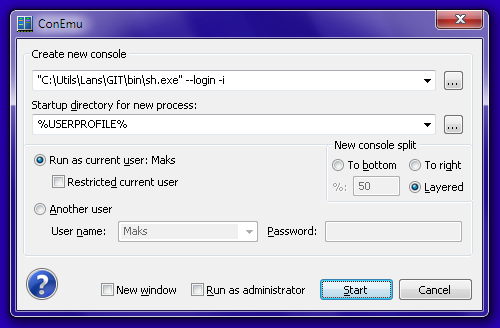
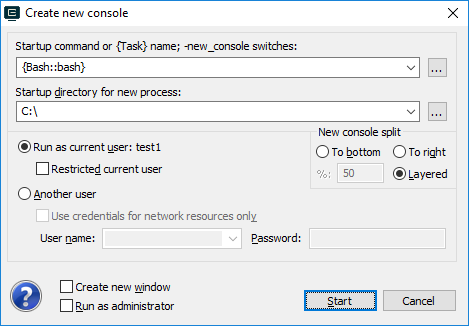
Updated screenshot and ‘take care about double quotes’

diff --git a/en/LaunchNewTab.md b/en/LaunchNewTab.md
@@ -16,6 +16,7 @@ breadcrumbs:
   * [Create new console without dialog](#Create_new_console_without_dialog)
 * [Tasks](#Tasks)
 * [Create new tab from existing one](#Create_new_tab_from_existing_one)
+  * [Take care about double quotes](#double_quotes)
 * [Duplicate root](#Duplicate_root)
 * [Default terminal feature](#Default_terminal_feature)
 * [Attach existing console or GUI application](#Attach_existing_console_or_GUI_application)
@@ -25,7 +26,7 @@ breadcrumbs:
 
 
 
-<h2 id="Using_ConEmu_switches"> <a href="ConEmuArgs.html">Using ConEmu switches</a> </h2>
+## [Using ConEmu switches](ConEmuArgs.html)  {#Using_ConEmu_switches}
 
 When you run something from `Win+R` or shortcut from your Desktop,
 you may use `-run` or `-runlist` to run your application. Remember, `-run` or `-runlist` will be the last ConEmu's GUI interpreted switch. The rest of command line will be used to start your application. Read more in the [wiki](ConEmuArgs.html). Example:
@@ -35,21 +36,23 @@ ConEmu -reuse -dir "c:\projects" -run "set PATH=C:\MinGW\bin;%PATH%" & chcp 6500
 ~~~
 
 
+
+
 ## Create new console dialog  {#Create_new_console_dialog}
 
 How to start application (tcc, powershell, far, putty) in ConEmu tab?
 
 ![ConEmu confirmation of new console creation](/img/ConEmuCreate.png)
 
-This dialog may be opened from:
+This dialog may be opened by:
 
-* Keyboard (Win+W by default), or
-* ![Toolbar](/img/ConEmuAddBtn.png)
-* ![System menu](/img/ConEmuAddSys.png)
+* [Keyboard shortcut](SettingsHotkeys.html) (it's `Win+Shif+W` by default)
+* [Toolbar's](ToolBar.html) <code class="plus">[+]</code> button, you have to hold `Shift` key if you've disabled
+  [‘Confirm creating new console/tab’](SettingsConfirm.html#id1546) <br/>
+  ![Toolbar](/img/ConEmuAddBtn.png)
+* [System menu -> New console...](SystemMenu.html) <br/>
+  ![System menu](/img/ConEmuAddSys.png)
 * GuiMacro [Create(0,1)](GuiMacro.html#Recreate)
-
-**NB**, if you have disabled [Create confirmation](SettingsConfirm.html)
-press `Win+Shift+W` or `Shift`+<code class="plus">[+]</code>.
 
 Well, what you can do with this dialog?
 
@@ -80,7 +83,7 @@ or Keyboard (`Win+Shift+W` by default).
 
 
 
-<h2 id="Tasks"> <a href="Tasks.html">Tasks</a> </h2>
+## [Tasks](Tasks.html)  {#Tasks}
 
 You may define your own tasks or just use predefined one.
 Choose the task from drop down menu or run task by hotkey.
@@ -110,6 +113,21 @@ For example, you may start command in new elevated tab using `-new_console:a`.
 ~~~
 cmd -new_console:a
 ~~~
+
+
+### Take care about double quotes  {#double_quotes}
+
+Some shells (e.g. PowerShell) do preprocessing of the typed command line
+**before** passing it to the starting application.
+
+You must properly **escape** double quotes. Please consult with your shell manual.
+
+Example below starts new PowerShell tab from **PowerShell prompt** or script
+using specified Tab icon.
+
+```
+& powershell "-new_console:C:`"C:\path with spaces\favicon.ico`""
+```
 
 
 
@@ -162,7 +180,7 @@ Mostly like as ‘Attach from command prompt’ but you may set up automatic exe
 of ‘Attach’ on cmd.exe startup.
 This also works with TCC/LE.
 
-Set up feature on ‘ComSpec’ page of ‘Settings’ dialog.
+Set up feature on [‘ComSpec’](SettingsComspec.html) page of ‘Settings’ dialog.
 
 
 
